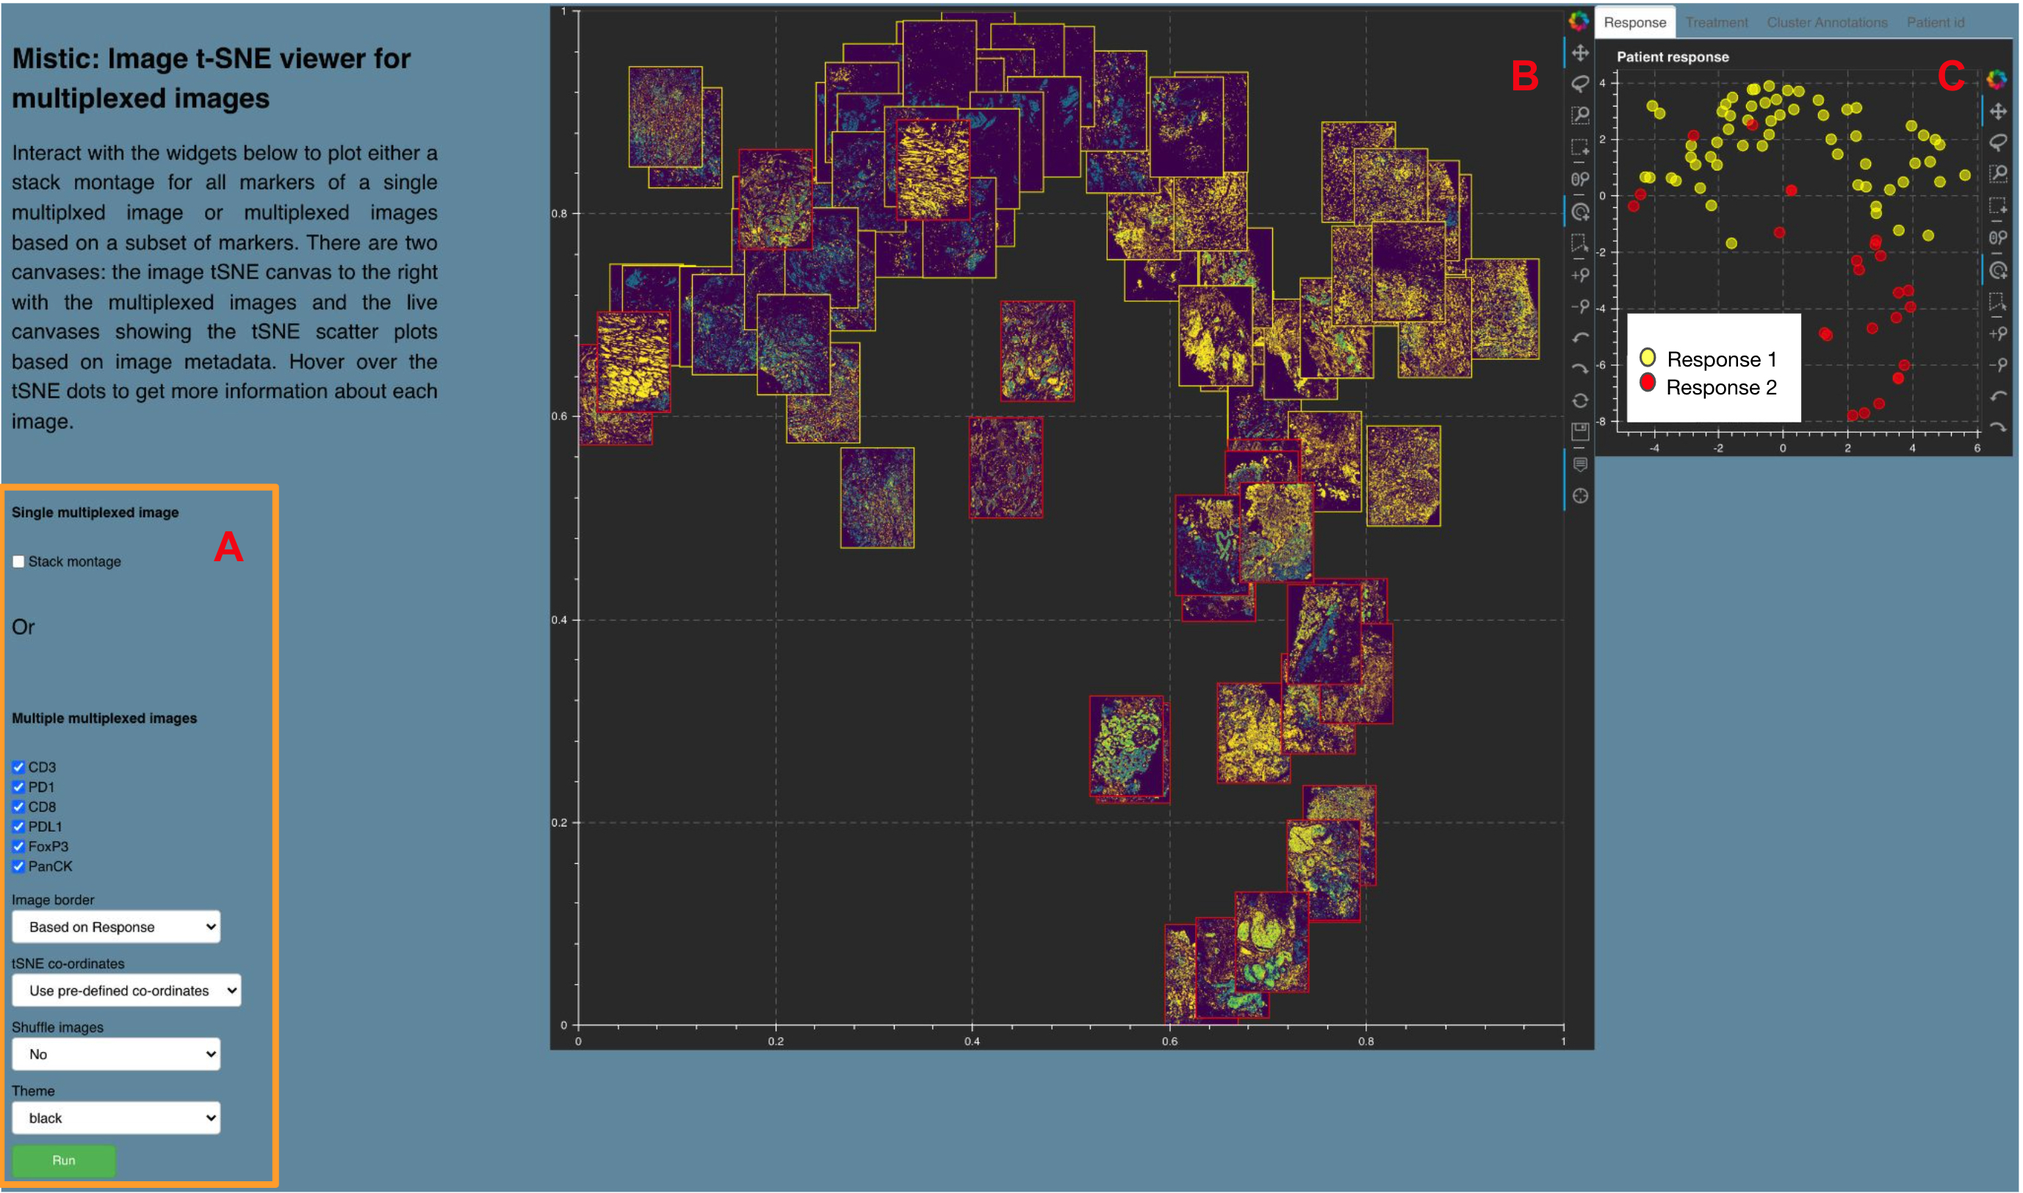
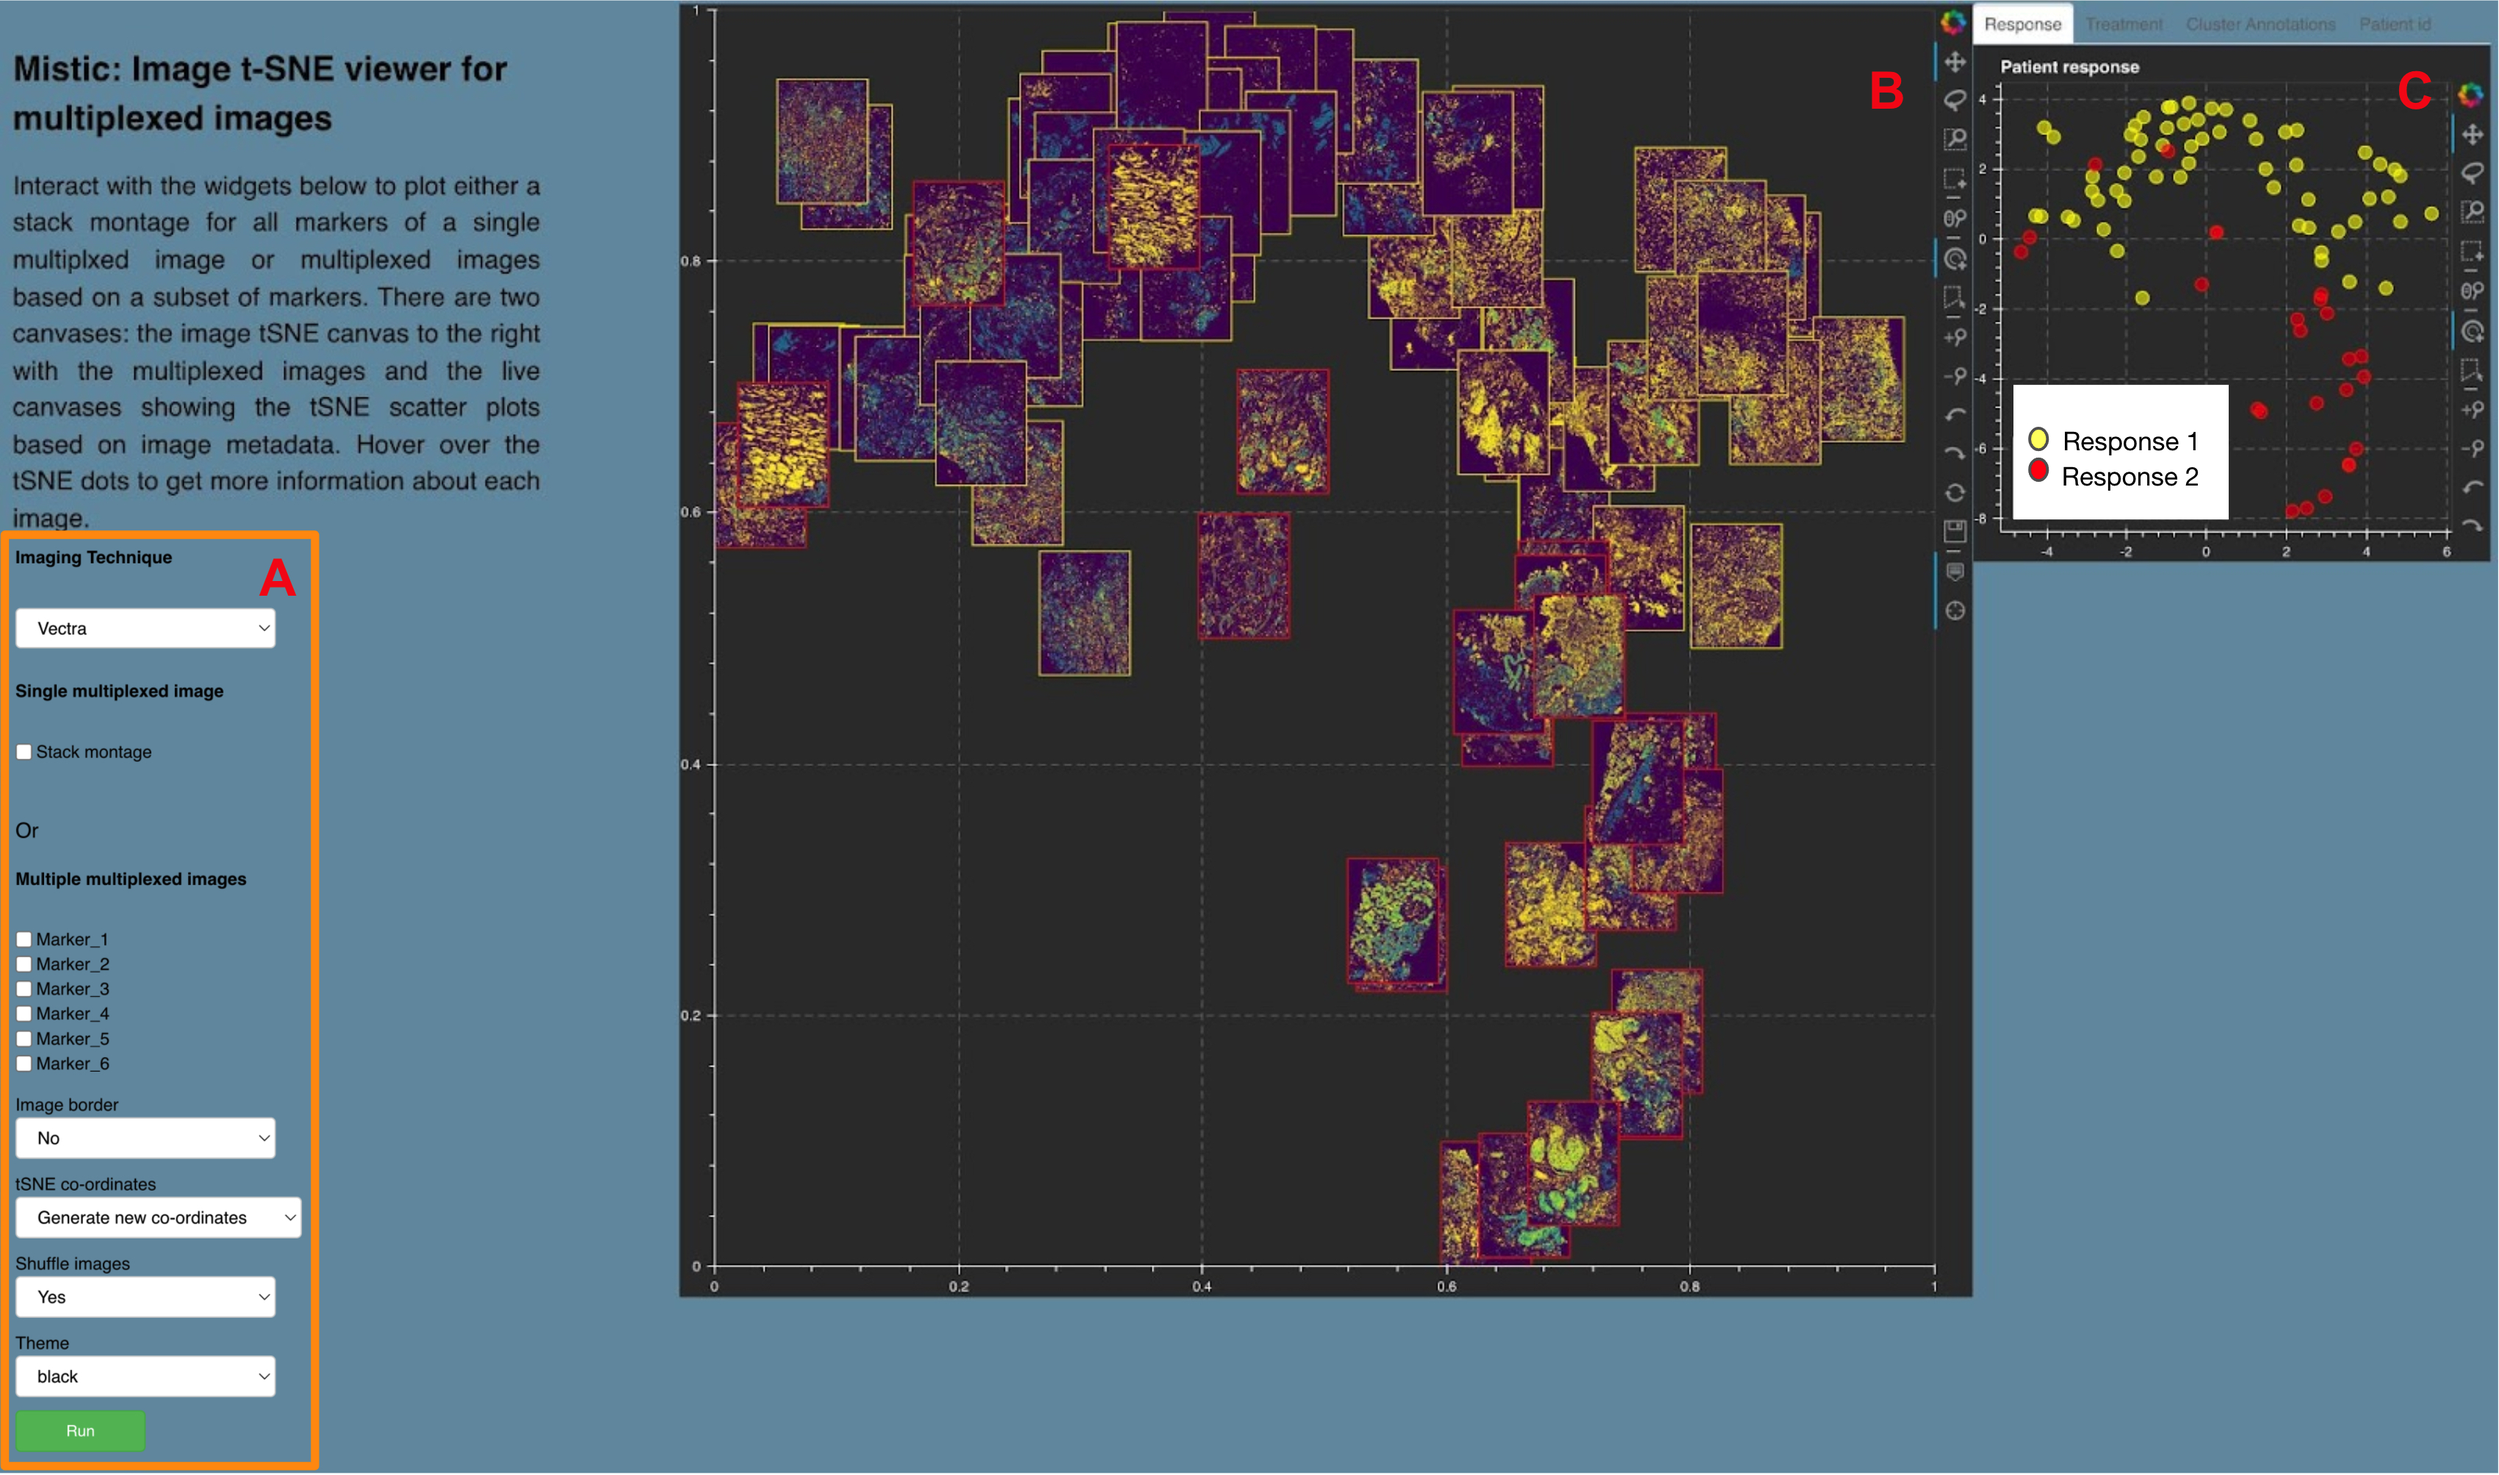
updated gui figure

diff --git a/_build/html/intro.html b/_build/html/intro.html
@@ -82,7 +82,7 @@
 <h2>1.1. What is Mistic<a class="headerlink" href="#what-is-mistic" title="Permalink to this headline">¶</a></h2>
 <p>This is a Python tool using the Bokeh library to view multiple multiplex images simultaneously.
 The code has been tested on 7-panel Vectra, 32-panel CODEX and 44-panel t-CyCIF images.</p>
-<a class="reference internal image-reference" href="_images/Mistic_GUI.jpg"><img alt="Mistic GUI.a. User-input panel where stack montage option or markers can be selected, images borders can be added, new or pre-defined image display coordinates can be chosen, and a theme for the canvases can be selected. b. Static canvas showing the image t-SNE colored and arranged as per user inputs. c. Live canvas showing the corresponding t-SNE scatter plot where each image is represented as a dot. The live canvas has tabs for displaying additional information per image. Metadata for each image can be obtained by hovering over each dot." src="_images/Mistic_GUI.jpg" style="width: 600px;" /></a>
+<a class="reference internal image-reference" href="_images/Mistic_GUI.jpg"><img alt="Mistic GUI.A. User-input panel where imaging technique choice, stack montage option or markers can be selected, images borders can be added, new or pre-defined image display coordinates can be chosen, and a theme for the canvases can be selected. B. Static canvas showing the image t-SNE colored and arranged as per user inputs. C. Live canvas showing the corresponding t-SNE scatter plot where each image is represented as a dot. The live canvas has tabs for displaying additional information per image. Metadata for each image can be obtained by hovering over each dot." src="_images/Mistic_GUI.jpg" style="width: 600px;" /></a>
 <p>A sample Mistic GUI with user inputs is shown. a. User-input panel where markers can be selected, images borders can be added, new or pre-defined image display coordinates can be         chosen, and a theme for the canvases can be selected. b. Static canvas showing the image t-SNE colored and arranged as per user inputs. c. Live canvas showing the corresponding t-        SNE scatter plot where each image is represented as a dot. The live canvas has tabs for displaying additional information per image. Metadata for each image can be obtained by hovering over each dot.</p>
 </section>
 <section id="motivation-behind-developing-mistic">

diff --git a/intro.rst b/intro.rst
@@ -8,9 +8,9 @@ The code has been tested on 7-panel Vectra, 32-panel CODEX and 44-panel t-CyCIF 
 
 .. image:: figures/Mistic_GUI.jpg
   :width: 600
-  :alt: Mistic GUI.a. User-input panel where stack montage option or markers can be selected, images borders can be added, new or pre-defined image display coordinates
-        can be chosen, and a theme for the canvases can be selected. b. Static canvas showing the image t-SNE colored and arranged as per user inputs.
-        c. Live canvas showing the corresponding t-SNE scatter plot where each image is represented as a dot.
+  :alt: Mistic GUI.A. User-input panel where imaging technique choice, stack montage option or markers can be selected, images borders can be added, new or pre-defined image display coordinates
+        can be chosen, and a theme for the canvases can be selected. B. Static canvas showing the image t-SNE colored and arranged as per user inputs.
+        C. Live canvas showing the corresponding t-SNE scatter plot where each image is represented as a dot.
         The live canvas has tabs for displaying additional information per image.
         Metadata for each image can be obtained by hovering over each dot.
 
